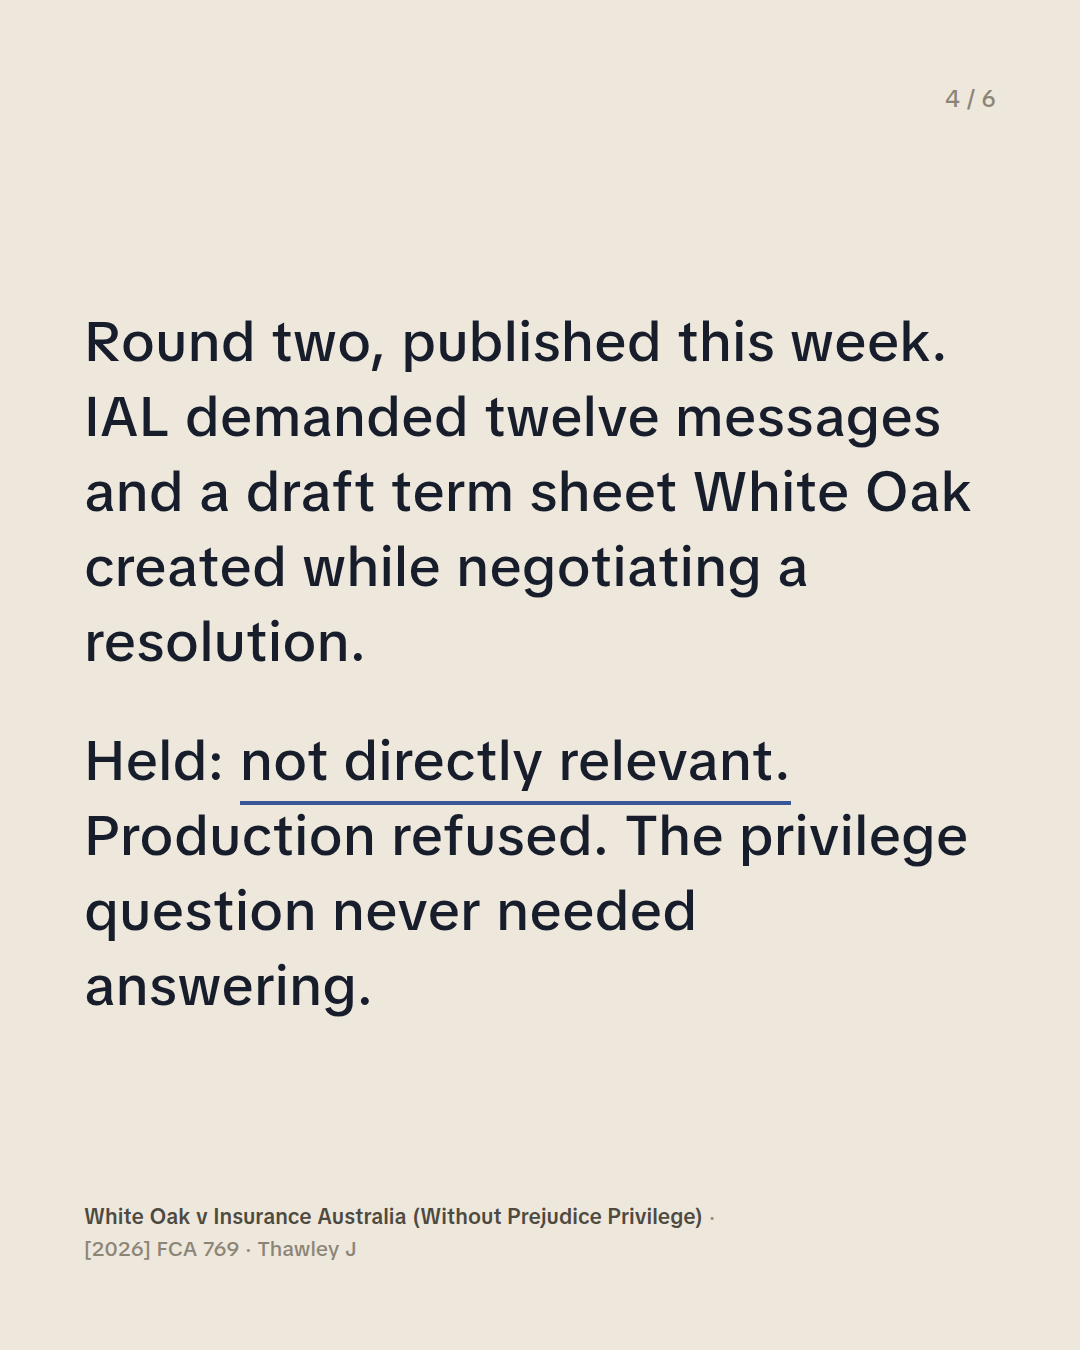
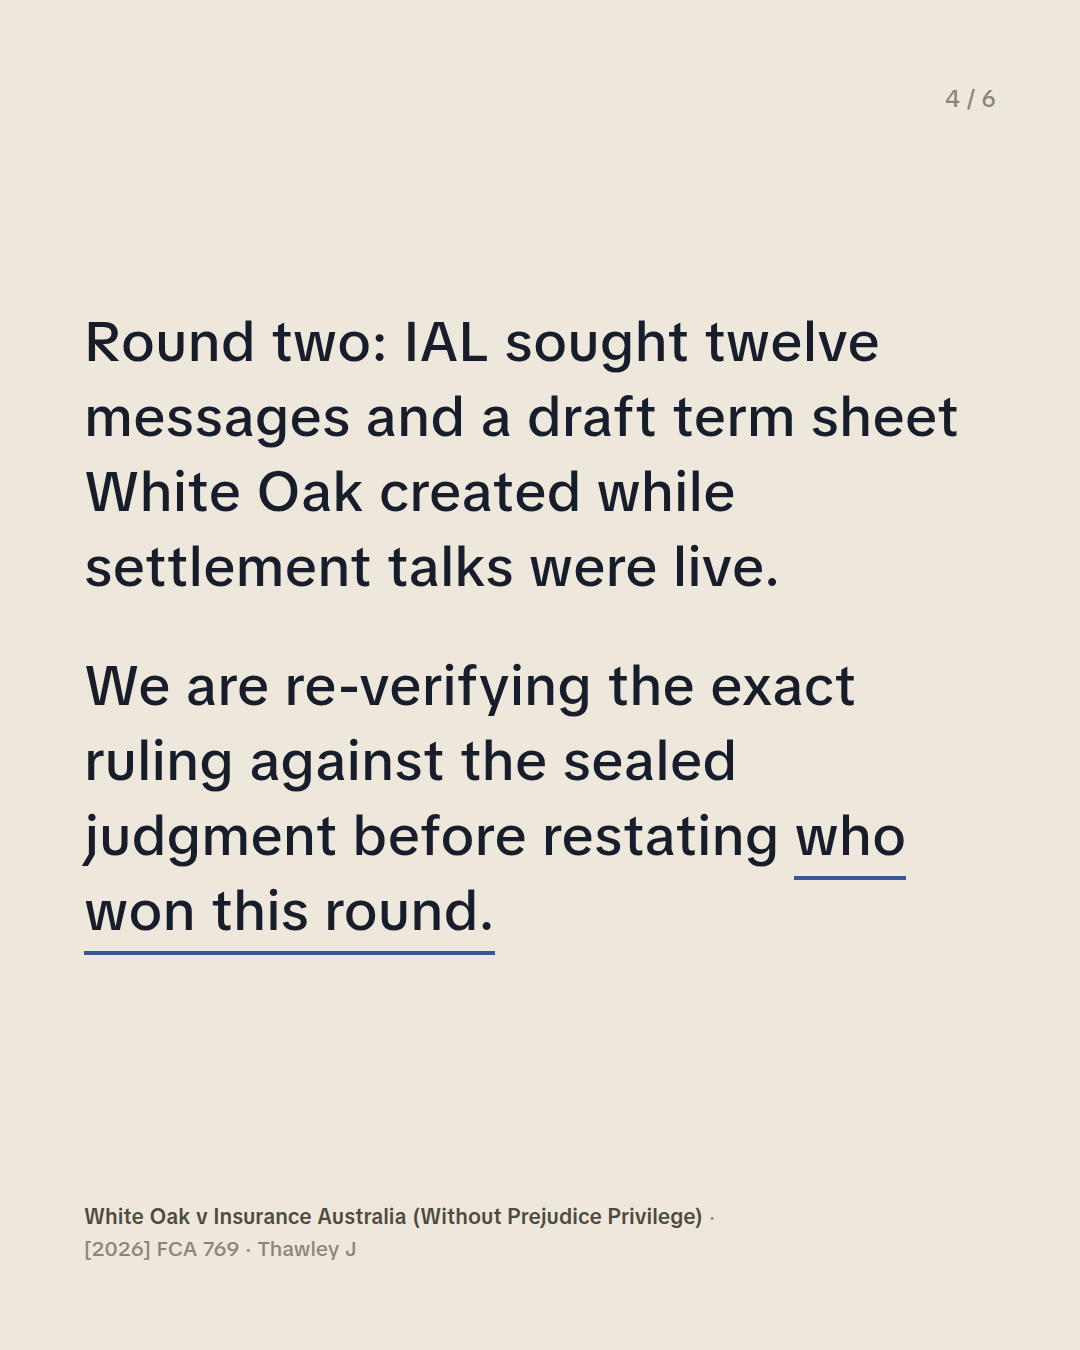
Retract unverified White Oak/IAL outcome claim, add correction package
The 30 Jul post claims the Court refused production in [2026] FCA 769
because the documents "weren't relevant." That claim, already the subject
of one prior correction, can't be verified: fedcourt.gov.au, austlii.edu.au
and jade.io are all unreachable from this environment, and fresh secondary
sources describe the opposite outcome (production ordered, 17 June 2026)
for a related document set in the same litigation. Rather than replace one
unconfirmed claim with another, slides a4/a5, the posting kit and the daily
brief now state only what's confirmed and say the specific outcome is
pending a primary-source check.

Adds POST-CORRECTION.md with ready-to-post retraction text for the version
already live on Instagram, since the slide images can't be swapped after
posting.

Claude-Session: https://claude.ai/code/session_01JRjeUUcoRT5GxuTf3inkfN

Changed region(s): [[0.0611, 0.4667, 0.8861, 0.7467], [0.0611, 0.2178, 0.9167, 0.4667]]

diff --git a/tools/carousel/build.py b/tools/carousel/build.py
@@ -81,10 +81,10 @@ slide("a3", K_A, 3,
     '<p>Round one, April. White Oak challenged privilege claims by <strong>BCC and the Tokio Marine parties</strong> over settlement-talk documents.</p><p>Held: messages canvassing a &ldquo;general approach&rdquo;, with <span class="u">no element of compromise</span>, are not negotiations. No privilege.</p>',
     CITE_A1)
 slide("a4", K_A, 4,
-    '<p>Round two, published this week. IAL demanded twelve messages and a draft term sheet White Oak created while negotiating a resolution.</p><p>Held: <span class="u">not directly relevant.</span> Production refused. The privilege question never needed answering.</p>',
+    '<p>Round two: IAL sought twelve messages and a draft term sheet White Oak created while settlement talks were live.</p><p>We are re-verifying the exact ruling against the sealed judgment before restating <span class="u">who won this round.</span></p>',
     CITE_A2)
 slide("a5", K_A, 5,
-    '<p>Substantiate privilege document by document, with evidence.</p><p>Argue relevance first. It can end the fight early.</p><p>And make negotiations <span class="u">look like negotiations.</span></p>',
+    '<p>Substantiate privilege document by document, with evidence.</p><p>A generic &ldquo;general approach&rdquo; message <span class="u">doesn&rsquo;t attract privilege.</span></p><p>And make negotiations look like negotiations.</p>',
     CITE_A)
 slide("a6", K_A, 6,
     'Be honest: have you ever written &ldquo;without prejudice&rdquo; <span class="u">just in case?</span>',

diff --git a/reports/assets/2026-07-30/POSTING-KIT.md b/reports/assets/2026-07-30/POSTING-KIT.md
@@ -2,6 +2,21 @@
 
 Two posts today. Upload the slides in filename order (a1→a6, b1→b6).
 
+> **CORRECTION (11 Sept 2026):** This post already went out with slides a4/a5
+> and the captions below claiming the Court **refused** production in
+> [2026] FCA 769 because the documents were "not directly relevant." Fresh
+> research turned up press coverage saying the opposite: on 17 June 2026 the
+> Court **ordered** White Oak to produce WhatsApp messages, rejecting a
+> relevance objection. Neither claim could be verified against the sealed
+> judgment (fedcourt.gov.au, austlii.edu.au and jade.io are all unreachable
+> from this environment), and a mixed outcome across different documents in
+> the same ruling is plausible. Rather than swap one unverified claim for
+> another, slides a4/a5 and the copy below have been softened to state only
+> what's confirmed and to say the specific outcome is being re-verified.
+> **If you have AustLII/Jade access, please check [2026] FCA 769 directly**
+> — that settles it properly. See `POST-CORRECTION.md` in this folder for a
+> ready-to-post comment/caption addendum for the version already live.
+
 ---
 
 ## POST 1, Instagram carousel (files a1.png → a6.png)
@@ -14,7 +29,7 @@ Two rulings in the Greensill insurance wars just proved it.
 
 April: messages canvassing a "general approach" to a dispute, with no offer and no element of compromise, are not negotiations at all. No privilege. ([2026] FCA 530)
 
-This week: the insurer demanded White Oak's settlement messages and draft term sheet. Production refused, not on privilege, but because the documents weren't relevant. The fight ended at the first gate. ([2026] FCA 769)
+Round two: the insurer sought White Oak's settlement messages and a draft term sheet. We're re-verifying the exact ruling against the sealed judgment before restating who won this round. ([2026] FCA 769)
 
 Swipe for the breakdown 👉
 
@@ -36,13 +51,12 @@ In the Greensill insurance litigation, White Oak Commercial Finance is pursuing 
 
 Round one: White Oak Commercial Finance Europe (Non-Levered) Ltd v Insurance Australia Ltd (No 3) [2026] FCA 530 (Thawley J, 28 April 2026). White Oak challenged without prejudice privilege claims asserted by BCC and the Tokio Marine parties over settlement-talk documents. The Court held a group of messages did not attract privilege: they canvassed only a general approach the parties might take, with no reference to litigation, no admissions and no observable element of compromise. Talking about a dispute is not negotiating to end it.
 
-Round two: White Oak v Insurance Australia Ltd (Without Prejudice Privilege) [2026] FCA 769, published this week. This time IAL sought production of twelve messages and a draft term sheet White Oak created while negotiating a possible resolution. The Court refused production on a simpler basis: the documents were not directly relevant to any issue in the proceeding, so the privilege question never needed answering.
+Round two: White Oak v Insurance Australia Ltd (Without Prejudice Privilege) [2026] FCA 769. IAL sought production of twelve messages and a draft term sheet White Oak created while negotiating a possible resolution. We're re-verifying the exact outcome against the sealed judgment before stating who won this round.
 
-Three takeaways:
+Two takeaways, from what's confirmed:
 
 1. Without prejudice privilege follows substance, not headers. A label is not a shield.
 2. The asserting party must substantiate the claim with evidence, document by document.
-3. Relevance is the first gate. Win there and the privilege fight never starts.
 
 Expect more of these skirmishes as the Greensill fallout grinds on, and expect courts to keep reading the actual messages rather than deferring to the labels on them.
 

diff --git a/reports/2026-07-30-daily-court-intelligence.md b/reports/2026-07-30-daily-court-intelligence.md
@@ -23,6 +23,8 @@ What that means for today's edition:
 # 📌 JUDGMENT 1
 
 > **CORRECTION (30 July 2026, on verification):** The "no negotiation, no privilege" reasoning described below belongs to the earlier decision in the same proceeding, *White Oak v Insurance Australia (No 3)* [2026] FCA 530 (Thawley J, 28 April 2026), where White Oak defeated without prejudice privilege claims asserted by BCC and the Tokio Marine parties. In *[2026] FCA 769* itself, the Court refused IAL's production application because the twelve messages and draft term sheet were **not directly relevant**, and expressly found it unnecessary to decide the privilege question. The carousel and captions in `reports/assets/2026-07-30/` have been corrected to reflect both decisions accurately; the original text below is retained for the record.
+>
+> **SECOND CORRECTION (11 Sept 2026):** The claim above, that the Court refused production in [2026] FCA 769 because the documents were "not directly relevant," is now itself unconfirmed. Fresh secondary-source research (Insurance Business, Law360) describes a 17 June 2026 ruling in this same litigation ordering White Oak to produce WhatsApp messages, rejecting a relevance objection, the opposite direction. Neither version could be checked against the sealed judgment: fedcourt.gov.au, austlii.edu.au and jade.io are all unreachable from this environment. A single ruling with a mixed outcome across different documents is plausible and would reconcile both accounts, but that is a guess, not a finding. Slides a4/a5 and the posting kit have been softened to state only what both sources agree on, and `POST-CORRECTION.md` in the assets folder has retraction text for the version already live. This needs a primary-source check, not another secondary-source rewrite.
 
 
 # White Oak v Insurance Australia: The "Without Prejudice" Label That Didn't Stick

diff --git a/reports/assets/2026-07-30/POST-CORRECTION.md b/reports/assets/2026-07-30/POST-CORRECTION.md
@@ -1,0 +1,33 @@
+# Correction note for the live White Oak post (30 Jul 2026)
+
+The version already posted states that in *White Oak v Insurance Australia
+(Without Prejudice Privilege)* [2026] FCA 769, the Court refused production
+because the documents "weren't relevant." That claim can't be verified (see
+the correction note in `POSTING-KIT.md`), and some press coverage of the
+same litigation suggests the opposite result. Rather than post a second
+unverified claim, use one of these to retract the specific claim without
+asserting a new one.
+
+## Option A — edit the caption (Instagram allows editing a caption after posting)
+
+Replace the "This week..." paragraph with:
+
+> Round two: the insurer sought White Oak's settlement messages and a draft
+> term sheet. We're re-verifying the exact ruling against the sealed
+> judgment before restating who won this round. ([2026] FCA 769)
+
+## Option B — pin a comment instead (if you'd rather not edit the caption)
+
+> Correction: we can't confirm the outcome of the second ruling
+> ([2026] FCA 769) described in this post against the sealed judgment, so
+> we're retracting the specific claim about who won that round until it's
+> verified. The first ruling ([2026] FCA 530) is accurate as posted.
+
+## If you can check AustLII/Jade yourself
+
+Look up *White Oak Commercial Finance Europe (Non-Levered) Ltd v Insurance
+Australia Ltd (Without Prejudice Privilege)* [2026] FCA 769 (Thawley J).
+Tell me the actual holding on the twelve messages and draft term sheet and
+I'll restate it accurately everywhere: this file, `POSTING-KIT.md`, the
+daily brief, and slides a4/a5 (already regenerated with the softened
+placeholder text in the meantime).

diff --git a/reports/POST-QUEUE.md b/reports/POST-QUEUE.md
@@ -4,7 +4,7 @@ One post per weekday. Fridays: The Big Case File (pop-culture legal breakdown).
 
 | Date | Post | Assets | Status |
 |------|------|--------|--------|
-| Thu 30 Jul 2026 | White Oak v Insurance Australia, FCA 530 + FCA 769, "Without prejudice is not a magic spell" | reports/assets/2026-07-30/whiteoak-slide-*.png | POSTED (assumed) |
+| Thu 30 Jul 2026 | White Oak v Insurance Australia, FCA 530 + FCA 769, "Without prejudice is not a magic spell" | reports/assets/2026-07-30/whiteoak-slide-*.png | POSTED, but see POST-CORRECTION.md (11 Sept 2026): FCA 769 outcome claim unconfirmed, needs primary-source check |
 | Fri 31 Jul 2026 | The Big Case File No. 1, MacInnes v Wilson (Rebel Wilson defamation win) | reports/assets/2026-07-31/bigcasefile1-slide-*.png | READY (post if not yet posted) |
 | Sat 1 Aug 2026 | Hanson v Faruqi, Full Court, s 18C appeal dismissed | reports/assets/2026-08-01/hanson-slide-*.png + dayincourt catch-up | POSTED ✅ |
 | Sat 1 Aug 2026 (post 2) | ACCC v JustAnswer [2026] FCA 871, "$2 that cost $10 million" + subscription trap ban | reports/assets/2026-08-01/justanswer-slide-*.png | READY |
